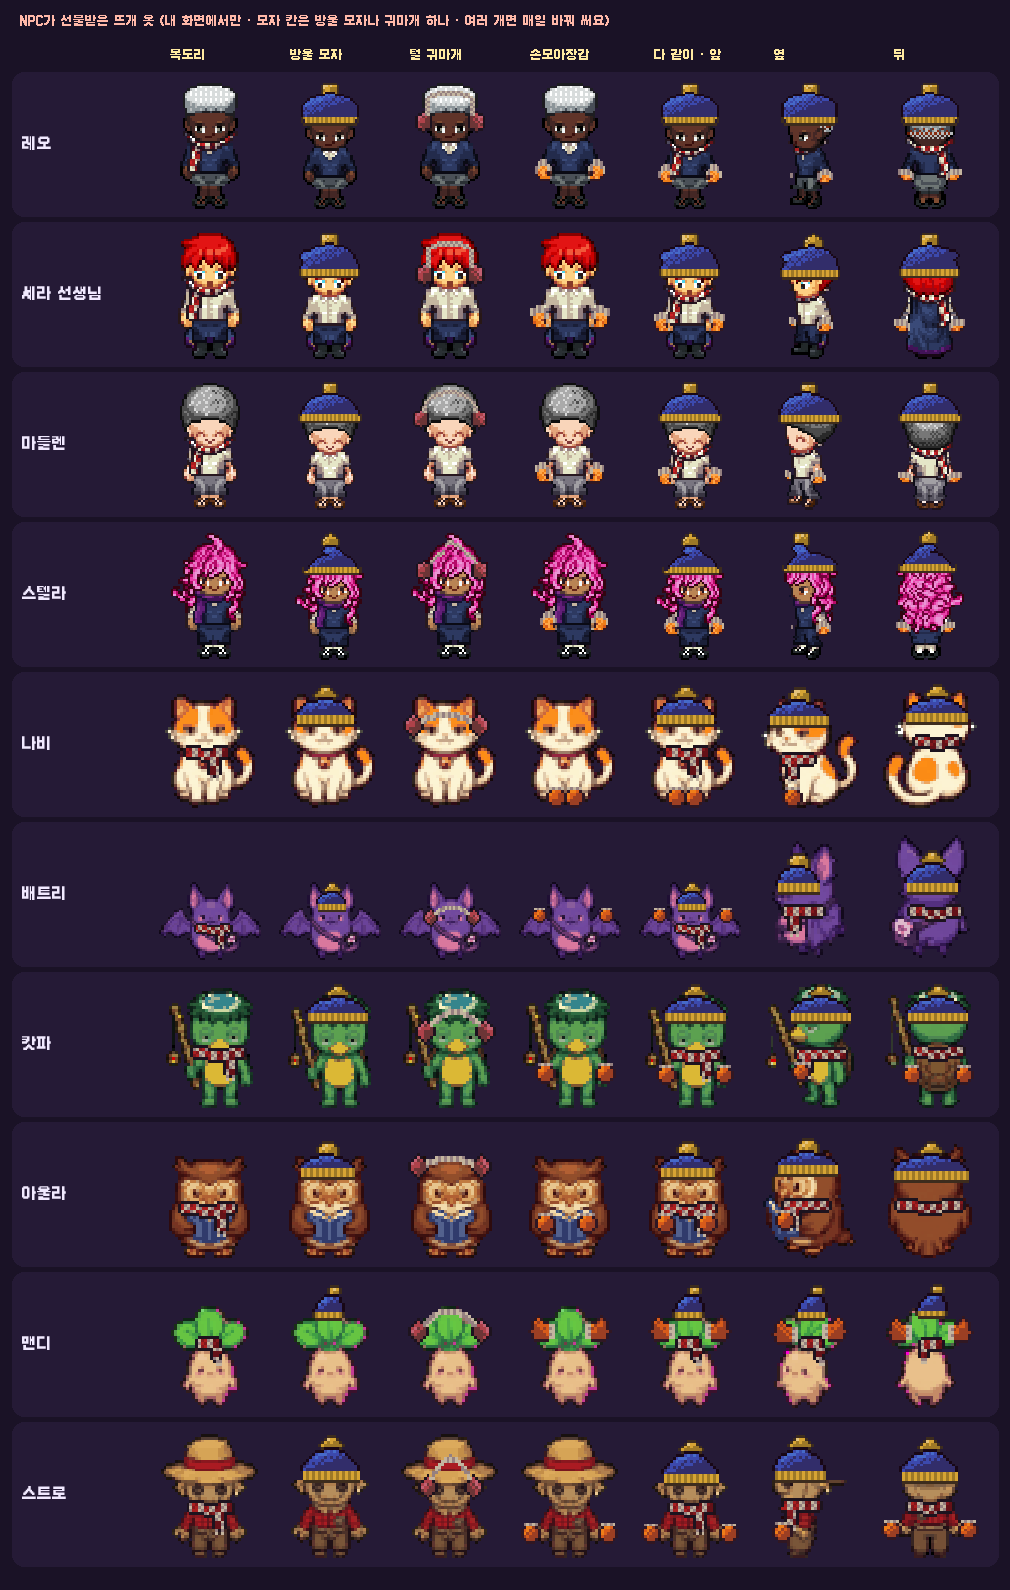
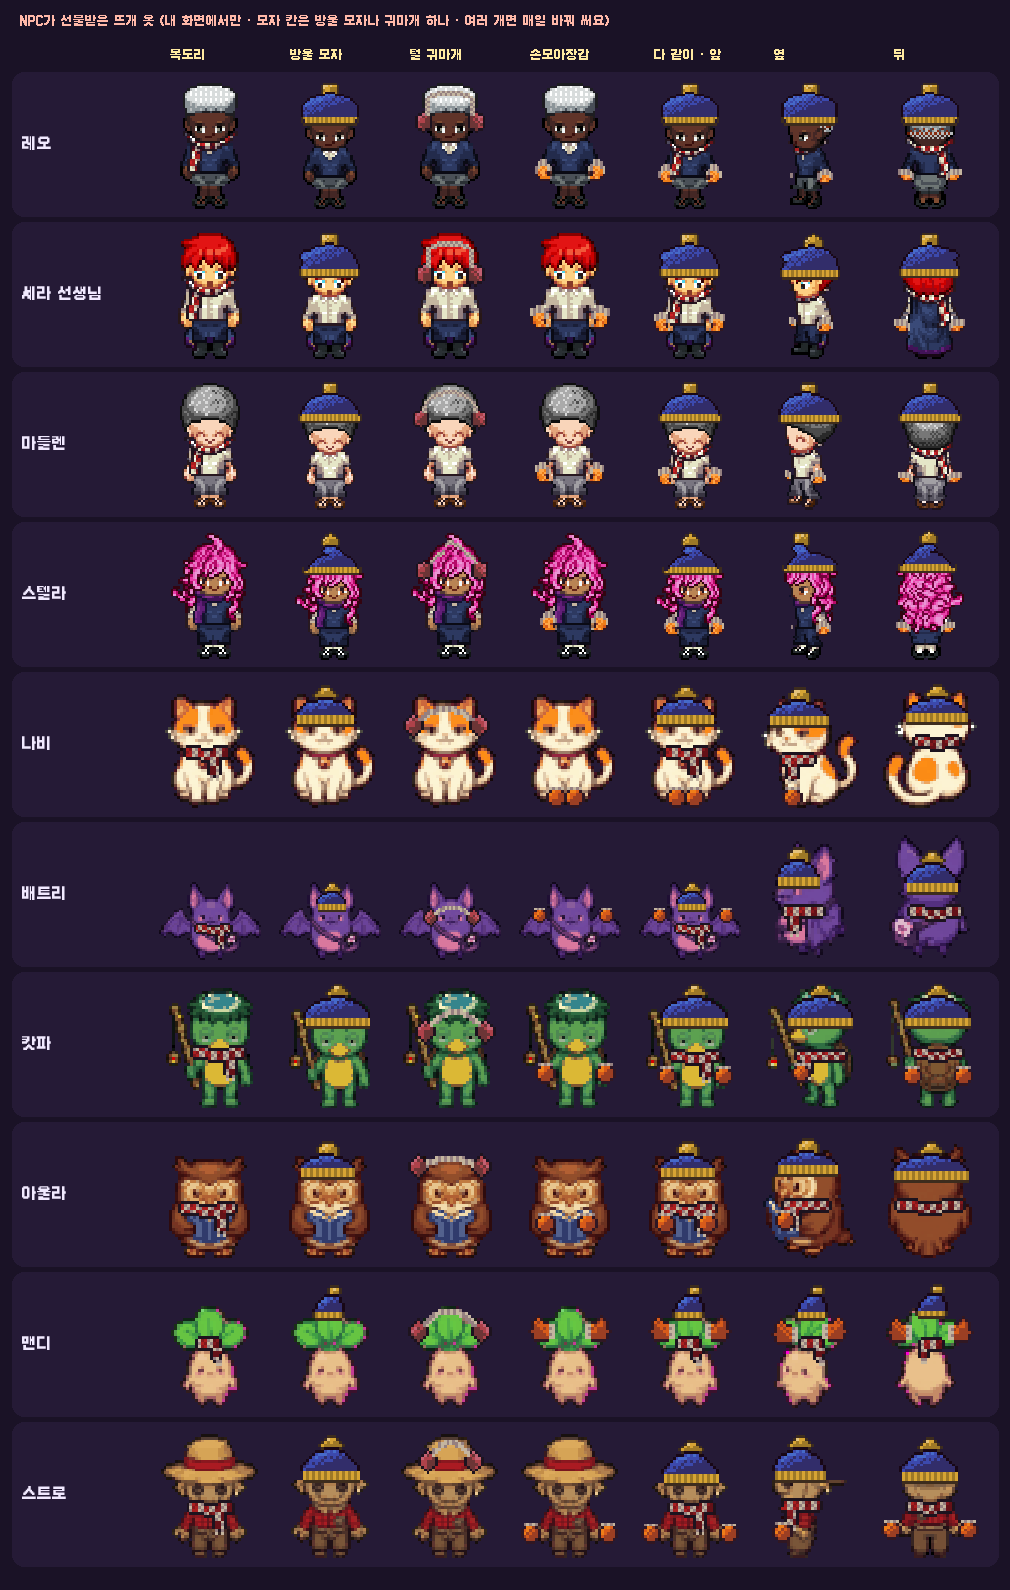
NPC 뜨개 옷 다듬기: 스트로 귀마개는 밀짚모자 위, 캇파 모자 높이, 나비 귀마개 띠 높이, 배트리 옆모습 모자(눈 보이게)
Claude-Session: https://claude.ai/code/session_01HhJ2NoNCjk5kaA3GWL7UDs

diff --git a/tools/iso/lpc/knit_npc.py b/tools/iso/lpc/knit_npc.py
@@ -121,17 +121,17 @@ class View:
 # 그림 NPC(동물 등): 앞 · 옆 · 뒤마다 직접 잡은 자리 — 모자(dome x0, x1, 꼭대기 y, 챙 y) · 귀마개(솜방울 자리들) · 목(y, x0, x1) · 손(자리들)
 SP_ = {
  # 나비: 모자가 머리 전체를 덮고 귀는 모자 위로 · 귀마개는 머리 옆(뺨 위)에 · 띠는 귀 사이 정수리
- 'npc0': {'': dict(hat=(20, 36, 23, 30), muff=[(17, 31), (39, 31)], mufftop=25, neck=(40, 23, 34), hands=[(25, 55), (31, 55)]),
-          '_side': dict(hat=(18, 35, 23, 30), muff=[(29, 31)], mufftop=25, neck=(42, 22, 30), hands=[(24, 55)]),
-          '_back': dict(hat=(25, 43, 22, 29), muff=[(22, 31), (46, 31)], mufftop=23, neck=(36, 28, 40), hands=[])},
+ 'npc0': {'': dict(hat=(20, 36, 23, 30), muff=[(17, 31), (39, 31)], mufftop=21, neck=(40, 23, 34), hands=[(25, 55), (31, 55)]),
+          '_side': dict(hat=(18, 35, 23, 30), muff=[(29, 31)], mufftop=22, neck=(42, 22, 30), hands=[(24, 55)]),
+          '_back': dict(hat=(25, 43, 22, 29), muff=[(22, 31), (46, 31)], mufftop=20, neck=(36, 28, 40), hands=[])},
  # 배트리: 모자는 정수리를 덮고 큰 귀는 모자 양옆 위로 · 귀마개는 머리 옆
  'npc1': {'': dict(hat=(27, 37, 22, 29), muff=[(22, 33), (42, 33)], mufftop=24, neck=(38, 26, 39), hands=[(17, 32), (48, 32)]),
-          '_side': dict(hat=(22, 33, 23, 30), muff=[(31, 32)], mufftop=24, neck=(37, 24, 34), hands=[]),
+          '_side': dict(hat=(22, 33, 21, 28), muff=[(31, 32)], mufftop=24, neck=(37, 24, 34), hands=[]),
           '_back': dict(hat=(26, 40, 22, 30), muff=[(22, 33), (43, 33)], mufftop=24, neck=(37, 27, 41), hands=[])},
  # 캇파: 모자는 접시를 덮되 낮게 · 귀마개는 얼굴 양옆 (옆모습은 눈 뒤)
- 'npc2': {'': dict(hat=(25, 43, 20, 27), muff=[(24, 32), (44, 32)], mufftop=20, neck=(39, 27, 41), hands=[(24, 46), (44, 46)]),
-          '_side': dict(hat=(26, 44, 20, 27), muff=[(41, 31)], mufftop=21, neck=(39, 28, 42), hands=[(28, 45)]),
-          '_back': dict(hat=(26, 44, 20, 27), muff=[(25, 32), (45, 32)], mufftop=20, neck=(38, 28, 42), hands=[(26, 46), (44, 46)])},
+ 'npc2': {'': dict(hat=(24, 44, 19, 28), muff=[(24, 32), (44, 32)], mufftop=20, neck=(39, 27, 41), hands=[(24, 46), (44, 46)]),
+          '_side': dict(hat=(25, 45, 19, 28), muff=[(41, 31)], mufftop=21, neck=(39, 28, 42), hands=[(28, 45)]),
+          '_back': dict(hat=(25, 45, 19, 28), muff=[(25, 32), (45, 32)], mufftop=20, neck=(38, 28, 42), hands=[(26, 46), (44, 46)])},
  # 아울라: 뒷모습 모자는 넓고 낮게 · 귀마개는 머리 옆으로 조금 내려서
  'npc3': {'': dict(hat=(24, 39, 24, 30), muff=[(21, 27), (42, 27)], neck=(41, 24, 39), hands=[(24, 46), (38, 46)]),
           '_side': dict(hat=(23, 40, 24, 30), muff=[(36, 28)], neck=(41, 25, 37), hands=[(24, 46)]),
@@ -140,9 +140,9 @@ SP_ = {
  'npc4': {'': dict(hat=(27, 41, 37, 43), leafy=((24, 33), (34, 26), (45, 33)), leafneck=(37, 31, 37), hands=[(27, 49), (42, 49)]),
           '_side': dict(hat=(25, 40, 37, 43), leafy=((23, 34), (33, 26), (42, 33)), leafneck=(37, 30, 36), hands=[(25, 49)]),
           '_back': dict(hat=(27, 42, 37, 43), leafy=((22, 33), (34, 25), (45, 33)), leafneck=(37, 31, 37), hands=[(27, 49), (42, 49)])},
- 'npc5': {'': dict(hat=(24, 40, 22, 31), muff=[(24, 33), (40, 33)], neck=(40, 26, 38), hands=[(18, 49), (45, 49)], strip=31, mufftop=14),   # 스트로: 털모자 쓸 땐 밀짚모자 벗고 · 귀마개는 밀짚모자 위로
-          '_side': dict(hat=(25, 39, 22, 31), muff=[(35, 33)], neck=(40, 27, 37), hands=[(26, 49)], strip=31, mufftop=15),
-          '_back': dict(hat=(24, 40, 22, 31), muff=[(24, 33), (40, 33)], neck=(40, 26, 38), hands=[(19, 48), (45, 48)], strip=31, mufftop=14)},
+ 'npc5': {'': dict(hat=(24, 40, 22, 31), muff=[(24, 24), (40, 24)], neck=(40, 26, 38), hands=[(18, 49), (45, 49)], strip=31, mufftop=12),   # 스트로: 털모자 쓸 땐 밀짚모자 벗고 · 귀마개는 밀짚모자 위로 (솜방울은 모자 챙 위 양옆 · 띠는 모자 꼭대기 위)
+          '_side': dict(hat=(25, 39, 22, 31), muff=[(34, 24)], neck=(40, 27, 37), hands=[(26, 49)], strip=31, mufftop=14),
+          '_back': dict(hat=(24, 40, 22, 31), muff=[(24, 24), (40, 24)], neck=(40, 26, 38), hands=[(19, 48), (45, 48)], strip=31, mufftop=12)},
 }
 class SpriteView:
     def __init__(s, v, who):
